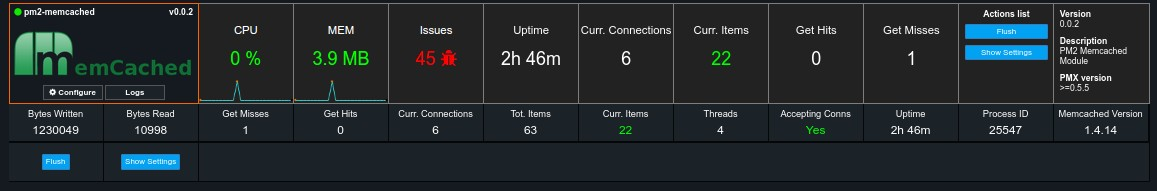
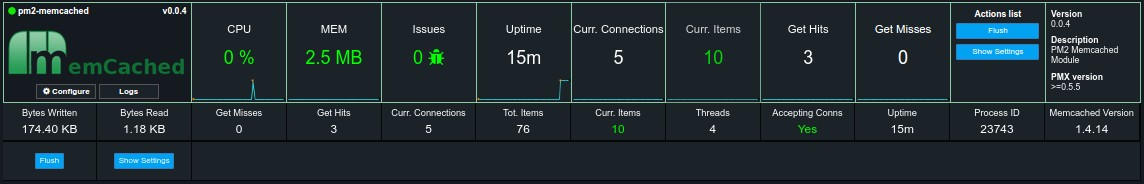
fix colors

diff --git a/app.js b/app.js
@@ -19,7 +19,7 @@ pmx.initModule({
     // 1 = secondary
     // 2 = main border
     // 3 = secondary border
-    theme: ['#141A1F', '#222222', '#FC6400', '#807C7C'],
+    theme: ['#141A1F', '#1B2228', '#8dcba5', '#8dcba5'],
 
     // Section to show / hide
     el: {
